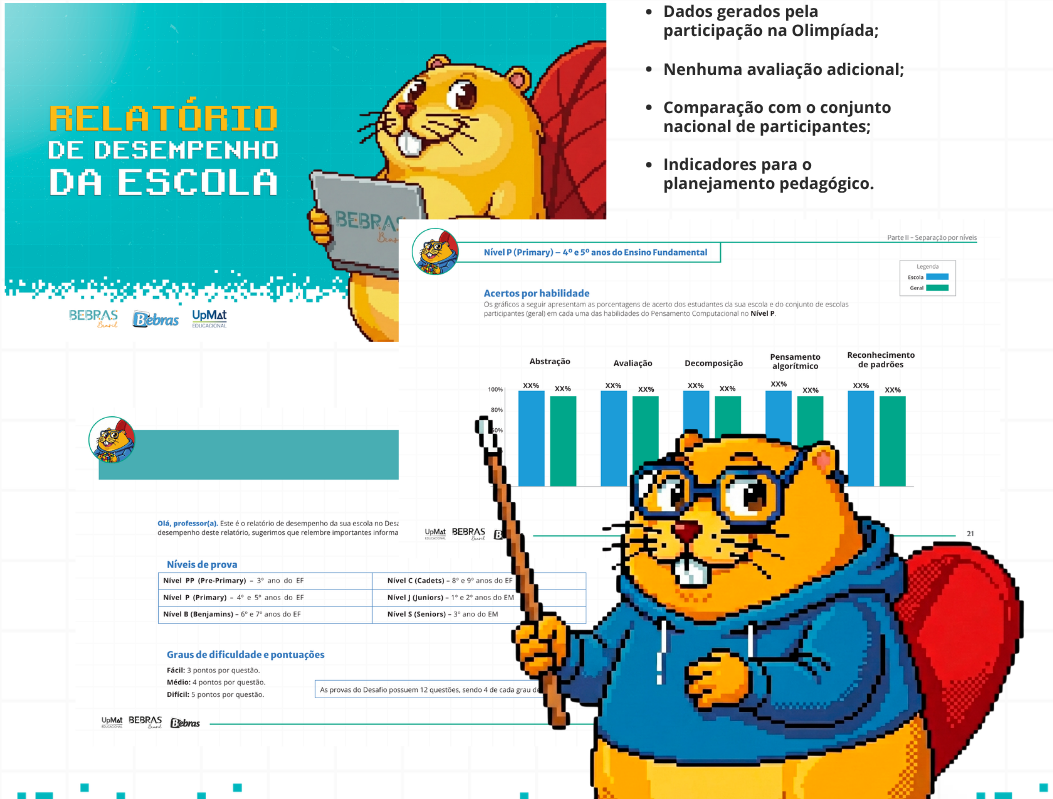
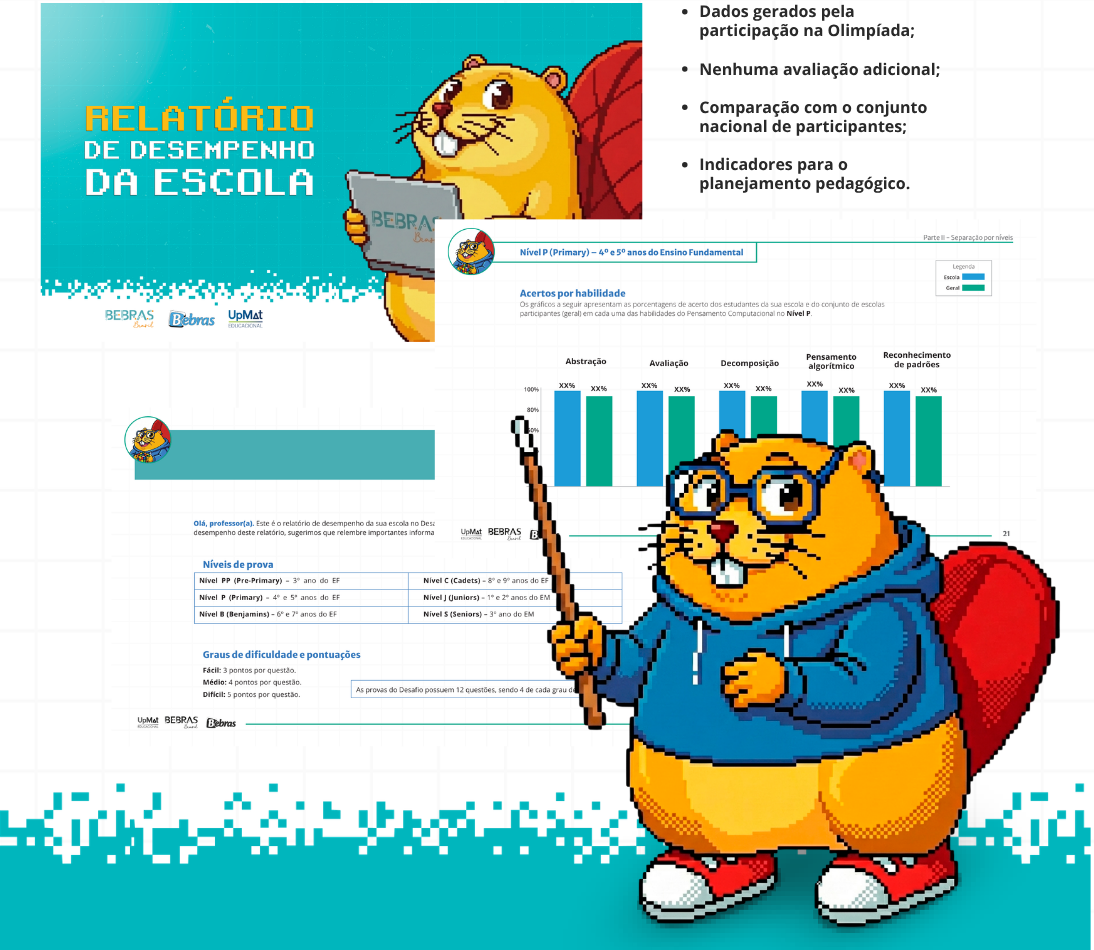
Corrige mascote com pés desconectados no hero
A imagem do mascote tinha sido recortada sem os pés (que ficavam
numa faixa de onda separada, de largura total). Como a ilustração
e a faixa renderizavam em larguras diferentes, os pés apareciam
flutuando, desalinhados do corpo. Recorta a ilustração completa
(mascote inteiro, incluindo os pés já apoiados na onda) e move a
faixa de onda remanescente para dentro da coluna de texto, evitando
duplicar o mascote.

diff --git a/index.html b/index.html
@@ -115,7 +115,7 @@
     display: grid;
     grid-template-columns: 1.05fr 1fr;
     gap: 32px;
-    align-items: center;
+    align-items: start;
   }
   .hero .text { min-width: 0; }
   .hero h1 {
@@ -141,6 +141,7 @@
     margin-top: 48px;
     display: block;
   }
+  .hero .media img { width: 100%; height: auto; display: block; }
 
   /* ---------- section 2: muito mais ---------- */
   .band-teal {
@@ -381,12 +382,12 @@
       <p class="kicker">RESULTADOS QUE VIRAM DECISÕES PEDAGÓGICAS</p>
       <p class="lede">Planeje os próximos passos com a ajuda dos Relatórios de Desempenho do Bebras.</p>
       <a class="btn" href="https://gestao.upmat.com.br/sign-in?code=Bebras26%20%7C%20type">INSCREVA SUA ESCOLA<br>NA OLIMPÍADA BEBRAS</a>
+      <img class="hero-wave" src="assets/hero-wave.png" alt="">
     </div>
     <div class="media">
       <img class="hero-illustration" src="assets/hero-illustration.png" alt="Capa do Relatório de Desempenho da Escola e mascote do Bebras apresentando gráficos de acertos por habilidade">
     </div>
   </div>
-  <img class="hero-wave" src="assets/hero-wave.png" alt="">
 </header>
 
 <section class="band-teal" id="mais-que-classificacao">
